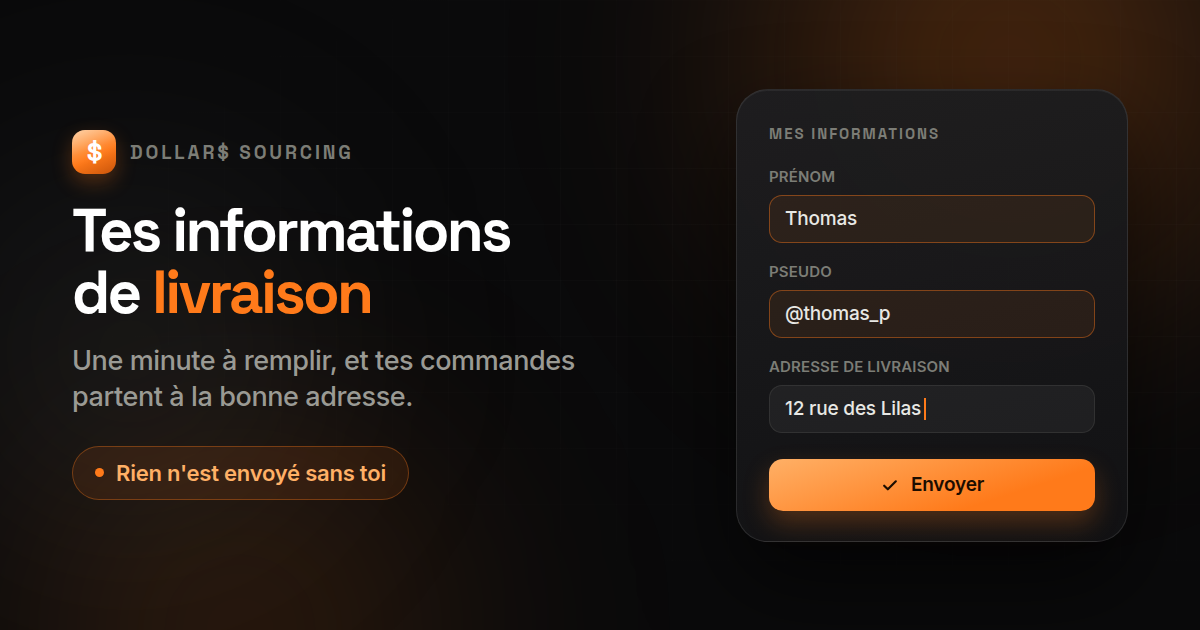
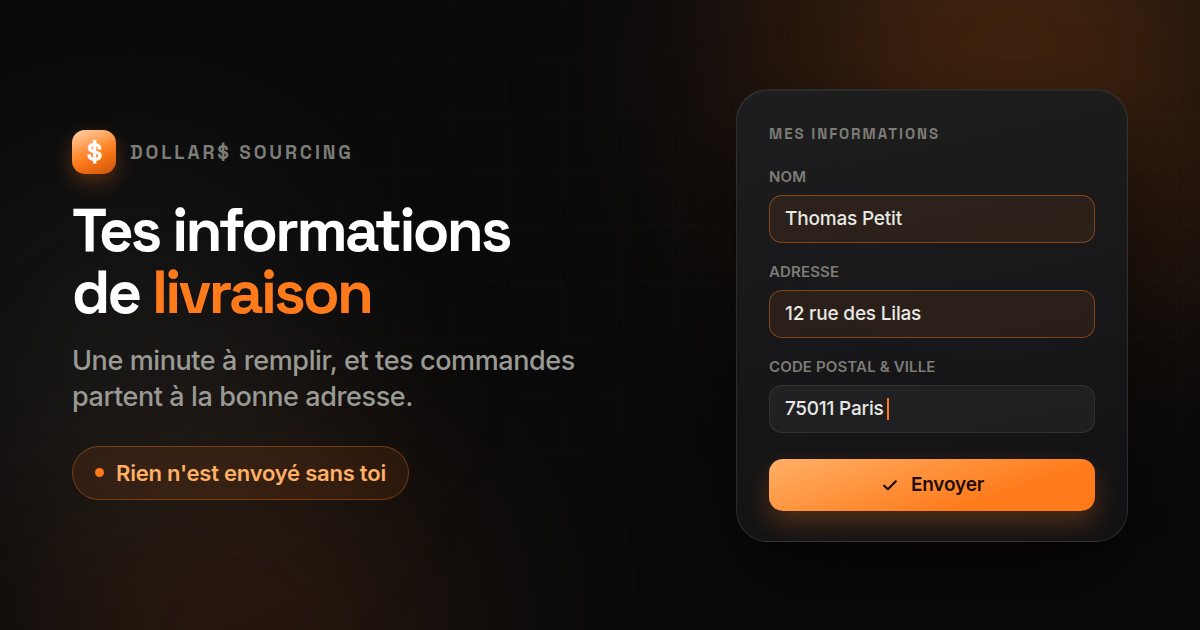
Le formulaire client tient en cinq lignes, celles du colis
Nom, Adresse, Code postal & Ville, Pays, Téléphone. Ni plus — une ligne de trop,
c'est un client qui abandonne — ni moins : une ligne qui manque, c'est un colis
qui revient.

Le pseudo réseau et le WhatsApp disparaissent du formulaire : Massif les a déjà,
c'est par là qu'il envoie le lien. Le nom redevient un seul champ, l'adresse se
scinde en rue / code postal & ville / pays.

Choisir une suggestion remplit désormais la rue ET la ligne code postal + ville
d'un coup : c'est tout l'intérêt d'avoir séparé les deux champs. Le pays est
pré-rempli à France et reste le seul champ facultatif ; les quatre autres sont
exigés, ce sont ceux sans lesquels rien ne part.

L'invite de l'assistant décrit le nouveau format et lui demande de regrouper les
trois lignes d'adresse en une seule chaîne — celle du colis. La bannière montre
les mêmes champs que la page.

Vérifié au navigateur : validation des quatre champs, autocomplétion qui
remplit les deux lignes, message construit en FR et EN, pays vide toléré,
parité des traductions et aucune clé orpheline.

Claude-Session: https://claude.ai/code/session_01RowgEY4HLSTdcJJrXVSWNG

diff --git a/formulaire.html b/formulaire.html
@@ -393,54 +393,43 @@
   </header>
 
   <form id="infoForm" novalidate>
+    <!-- Cinq lignes, et ce sont exactement celles qu'on recopie sur le colis :
+         nom, rue, code postal et ville, pays, téléphone. Ni plus (une ligne de
+         plus, c'est un client qui abandonne), ni moins (une ligne qui manque,
+         c'est un colis qui revient). -->
     <div class="card">
-      <p class="card-title" data-i18n="secIdentity">Qui es-tu</p>
-      <div class="row2">
-        <div class="field">
-          <label for="f_firstname" data-i18n="labFirstname">Prénom <span class="req">*</span></label>
-          <input type="text" id="f_firstname" autocomplete="given-name" enterkeyhint="next">
-          <div class="field-error"></div>
-        </div>
-        <div class="field">
-          <label for="f_lastname" data-i18n="labLastname">Nom <span class="req">*</span></label>
-          <input type="text" id="f_lastname" autocomplete="family-name" enterkeyhint="next">
-          <div class="field-error"></div>
-        </div>
-      </div>
+      <p class="card-title" data-i18n="secDelivery">Mes informations</p>
+
       <div class="field">
-        <label for="f_social" data-i18n="labSocial">Pseudo Snap / Insta / TikTok</label>
-        <input type="text" id="f_social" autocapitalize="none" autocomplete="off" data-i18n-placeholder="phSocial" placeholder="@ton_pseudo">
-        <p class="field-hint" data-i18n="hintSocial">Celui sur lequel on se parle déjà.</p>
+        <label for="f_name" data-i18n="labName">Nom <span class="req">*</span></label>
+        <input type="text" id="f_name" autocomplete="name" enterkeyhint="next" data-i18n-placeholder="phName" placeholder="Prénom et nom">
         <div class="field-error"></div>
       </div>
-    </div>
 
-    <div class="card">
-      <p class="card-title" data-i18n="secContact">Comment te joindre</p>
       <div class="field">
-        <label for="f_phone" data-i18n="labPhone">Téléphone</label>
-        <input type="tel" id="f_phone" class="tnum" autocomplete="tel" inputmode="tel" data-i18n-placeholder="phPhone" placeholder="06 12 34 56 78">
-      </div>
-      <div class="field">
-        <label for="f_whatsapp" data-i18n="labWhatsapp">WhatsApp</label>
-        <input type="tel" id="f_whatsapp" class="tnum" inputmode="tel" autocomplete="off" data-i18n-placeholder="phWhatsapp" placeholder="Si différent du téléphone">
-        <p class="field-hint" data-i18n="hintWhatsapp">C'est là que tu recevras le suivi de tes colis.</p>
-      </div>
-    </div>
-
-    <div class="card">
-      <p class="card-title" data-i18n="secDelivery">Où livrer</p>
-      <div class="field">
-        <label for="f_address" data-i18n="labAddress">Adresse complète <span class="req">*</span></label>
-        <input type="text" id="f_address" autocomplete="street-address" data-i18n-placeholder="phAddress" placeholder="Numéro, rue, code postal, ville">
+        <label for="f_address" data-i18n="labAddress">Adresse <span class="req">*</span></label>
+        <input type="text" id="f_address" autocomplete="street-address" data-i18n-placeholder="phAddress" placeholder="Numéro et rue">
         <div class="addr-suggestions" id="addrSuggestions"></div>
-        <p class="field-hint" data-i18n="hintAddress">Commence à taper : les adresses françaises se complètent toutes seules.</p>
+        <p class="field-hint" data-i18n="hintAddress">Commence à taper : les adresses françaises se complètent toutes seules, code postal et ville compris.</p>
         <div class="field-error"></div>
       </div>
+
       <div class="field">
-        <label for="f_extra" data-i18n="labExtra">Étage, bâtiment, code d'entrée</label>
-        <textarea id="f_extra" rows="2" data-i18n-placeholder="phExtra" placeholder="Bât. B, 3e étage, code 1234A"></textarea>
-        <p class="field-hint" data-i18n="hintExtra">Ce qui évite au livreur de repartir avec le colis.</p>
+        <label for="f_zipcity" data-i18n="labZipCity">Code postal &amp; Ville <span class="req">*</span></label>
+        <input type="text" id="f_zipcity" autocomplete="postal-code" data-i18n-placeholder="phZipCity" placeholder="75011 Paris">
+        <div class="field-error"></div>
+      </div>
+
+      <div class="field">
+        <label for="f_country" data-i18n="labCountry">Pays</label>
+        <input type="text" id="f_country" autocomplete="country-name" value="France">
+      </div>
+
+      <div class="field">
+        <label for="f_phone" data-i18n="labPhone">Téléphone <span class="req">*</span></label>
+        <input type="tel" id="f_phone" class="tnum" autocomplete="tel" inputmode="tel" data-i18n-placeholder="phPhone" placeholder="06 12 34 56 78">
+        <p class="field-hint" data-i18n="hintPhone">Le transporteur en a besoin pour te livrer.</p>
+        <div class="field-error"></div>
       </div>
     </div>
 
@@ -480,63 +469,51 @@ const I18N = {
     langTitle:'Langue', themeTitle:'Thème',
     pageTitle:'Tes informations',
     pageLead:'Une minute à remplir, et tes commandes partent à la bonne adresse.',
-    secIdentity:'Qui es-tu', secContact:'Comment te joindre', secDelivery:'Où livrer',
-    labFirstname:'Prénom <span class="req">*</span>', labLastname:'Nom <span class="req">*</span>',
-    labSocial:'Pseudo Snap / Insta / TikTok', phSocial:'@ton_pseudo',
-    hintSocial:'Celui sur lequel on se parle déjà.',
-    labPhone:'Téléphone', phPhone:'06 12 34 56 78',
-    labWhatsapp:'WhatsApp', phWhatsapp:'Si différent du téléphone',
-    hintWhatsapp:'C’est là que tu recevras le suivi de tes colis.',
-    labAddress:'Adresse complète <span class="req">*</span>',
-    phAddress:'Numéro, rue, code postal, ville',
-    hintAddress:'Commence à taper : les adresses françaises se complètent toutes seules.',
-    labExtra:'Étage, bâtiment, code d’entrée', phExtra:'Bât. B, 3e étage, code 1234A',
-    hintExtra:'Ce qui évite au livreur de repartir avec le colis.',
+    secDelivery:'Mes informations',
+    labName:'Nom <span class="req">*</span>', phName:'Prénom et nom',
+    labAddress:'Adresse <span class="req">*</span>', phAddress:'Numéro et rue',
+    hintAddress:'Commence à taper : les adresses françaises se complètent toutes seules, code postal et ville compris.',
+    labZipCity:'Code postal &amp; Ville <span class="req">*</span>', phZipCity:'75011 Paris',
+    labCountry:'Pays',
+    labPhone:'Téléphone <span class="req">*</span>', phPhone:'06 12 34 56 78',
+    hintPhone:'Le transporteur en a besoin pour te livrer.',
     privacyNote:'Ces informations servent uniquement à préparer et expédier tes commandes. Rien n’est envoyé sans toi : tu relis le message avant de l’envoyer.',
     sendBtn:'Envoyer sur WhatsApp', copyBtn:'Copier mes informations',
     sentTitle:'C’est parti',
     sentLead:'WhatsApp s’est ouvert avec tes informations. Il ne te reste qu’à appuyer sur envoyer.',
     backBtn:'Corriger mes informations',
     errRequired:'À remplir.',
-    errNoContact:'Laisse au moins un moyen de te joindre : pseudo, téléphone ou WhatsApp.',
     copied:'Informations copiées',
     copyFail:'Copie impossible — sélectionne le texte à la main.',
     msgIntro:'Voici mes informations pour mes commandes :',
     msgSep:' : ',
-    msgFirstname:'Prénom', msgLastname:'Nom', msgSocial:'Pseudo',
-    msgPhone:'Téléphone', msgWhatsapp:'WhatsApp',
-    msgAddress:'Adresse', msgExtra:'Précisions'
+    msgName:'Nom', msgAddress:'Adresse', msgZipCity:'Code postal & Ville',
+    msgCountry:'Pays', msgPhone:'Téléphone'
   },
   en:{
     langTitle:'Language', themeTitle:'Theme',
     pageTitle:'Your details',
     pageLead:'One minute to fill in, and your orders ship to the right address.',
-    secIdentity:'Who you are', secContact:'How to reach you', secDelivery:'Where to deliver',
-    labFirstname:'First name <span class="req">*</span>', labLastname:'Last name <span class="req">*</span>',
-    labSocial:'Snap / Insta / TikTok handle', phSocial:'@your_handle',
-    hintSocial:'The one we already talk on.',
-    labPhone:'Phone', phPhone:'+33 6 12 34 56 78',
-    labWhatsapp:'WhatsApp', phWhatsapp:'If different from your phone',
-    hintWhatsapp:'That’s where you’ll get your tracking.',
-    labAddress:'Full address <span class="req">*</span>',
-    phAddress:'Number, street, postcode, city',
-    hintAddress:'Start typing: French addresses complete themselves.',
-    labExtra:'Floor, building, door code', phExtra:'Bldg B, 3rd floor, code 1234A',
-    hintExtra:'What keeps the courier from leaving with your parcel.',
+    secDelivery:'My details',
+    labName:'Name <span class="req">*</span>', phName:'First and last name',
+    labAddress:'Address <span class="req">*</span>', phAddress:'Number and street',
+    hintAddress:'Start typing: French addresses complete themselves, postcode and city included.',
+    labZipCity:'Postcode &amp; City <span class="req">*</span>', phZipCity:'75011 Paris',
+    labCountry:'Country',
+    labPhone:'Phone <span class="req">*</span>', phPhone:'+33 6 12 34 56 78',
+    hintPhone:'The courier needs it to deliver to you.',
     privacyNote:'These details are only used to prepare and ship your orders. Nothing is sent without you: you read the message before sending it.',
     sendBtn:'Send on WhatsApp', copyBtn:'Copy my details',
     sentTitle:'All set',
     sentLead:'WhatsApp opened with your details. All that’s left is to hit send.',
     backBtn:'Edit my details',
     errRequired:'Required.',
-    errNoContact:'Leave at least one way to reach you: handle, phone or WhatsApp.',
     copied:'Details copied',
     copyFail:'Copy failed — select the text by hand.',
     msgIntro:'Here are my details for my orders:',
     msgSep:': ',
-    msgFirstname:'First name', msgLastname:'Last name', msgSocial:'Handle',
-    msgPhone:'Phone', msgWhatsapp:'WhatsApp',
-    msgAddress:'Address', msgExtra:'Notes'
+    msgName:'Name', msgAddress:'Address', msgZipCity:'Postcode & City',
+    msgCountry:'Country', msgPhone:'Phone'
   }
 };
 
@@ -650,13 +627,8 @@ function clearFieldError(input){
   const field = input.closest('.field');
   if(field) field.classList.remove('invalid');
 }
-['#f_firstname','#f_lastname','#f_address'].forEach(sel=>{
+['#f_name','#f_address','#f_zipcity','#f_phone'].forEach(sel=>{
   $(sel).addEventListener('input', ()=>clearFieldError($(sel)));
-});
-// L'erreur « laisse un moyen de te joindre » est portée par le champ pseudo,
-// mais n'importe lequel des trois la lève.
-['#f_social','#f_phone','#f_whatsapp'].forEach(sel=>{
-  $(sel).addEventListener('input', ()=>clearFieldError($('#f_social')));
 });
 
 // ================= Adresses françaises =================
@@ -697,13 +669,20 @@ $('#f_address').addEventListener('input', (e)=>{
   addrTimer = setTimeout(()=>searchAddress(q), 320);
 });
 $('#f_address').addEventListener('blur', ()=>setTimeout(hideAddrSuggestions, 180));
+// Choisir une suggestion remplit la rue ET la ligne code postal + ville : c'est
+// tout l'intérêt d'avoir séparé les deux champs.
 $('#addrSuggestions').addEventListener('click', (e)=>{
   const item = e.target.closest('[data-addr]');
   if(!item) return;
   const f = addrResults[Number(item.dataset.addr)];
   if(!f) return;
-  $('#f_address').value = (f.properties && f.properties.label) || '';
+  const pr = f.properties || {};
+  $('#f_address').value = pr.name || pr.label || '';
+  const cp = ((pr.postcode || '') + ' ' + (pr.city || '')).trim();
+  if(cp) $('#f_zipcity').value = cp;
+  if(!$('#f_country').value.trim()) $('#f_country').value = 'France';
   clearFieldError($('#f_address'));
+  clearFieldError($('#f_zipcity'));
   hideAddrSuggestions();
 });
 
@@ -712,37 +691,32 @@ $('#addrSuggestions').addEventListener('click', (e)=>{
 // une ligne par champ, un libellé, deux points. Les champs vides disparaissent.
 function collect(){
   return {
-    firstname: $('#f_firstname').value.trim(),
-    lastname:  $('#f_lastname').value.trim(),
-    social:    $('#f_social').value.trim(),
-    phone:     $('#f_phone').value.trim(),
-    whatsapp:  $('#f_whatsapp').value.trim(),
-    address:   $('#f_address').value.trim(),
-    extra:     $('#f_extra').value.trim()
+    name:    $('#f_name').value.trim(),
+    address: $('#f_address').value.trim(),
+    zipcity: $('#f_zipcity').value.trim(),
+    country: $('#f_country').value.trim(),
+    phone:   $('#f_phone').value.trim()
   };
 }
 function buildMessage(d){
   const lines = [t('msgIntro'), ''];
   const add = (key, val)=>{ if(val) lines.push(t(key) + t('msgSep') + val); };
-  add('msgFirstname', d.firstname);
-  add('msgLastname',  d.lastname);
-  add('msgSocial',    d.social);
-  add('msgPhone',     d.phone);
-  add('msgWhatsapp',  d.whatsapp);
-  add('msgAddress',   d.address);
-  add('msgExtra',     d.extra);
+  add('msgName',    d.name);
+  add('msgAddress', d.address);
+  add('msgZipCity', d.zipcity);
+  add('msgCountry', d.country);
+  add('msgPhone',   d.phone);
   return lines.join('\n');
 }
+// Quatre lignes sur cinq sont obligatoires : ce sont celles sans lesquelles le
+// colis ne part pas. Le pays est le seul à pouvoir rester vide, il est
+// pré-rempli à France et se corrige d'un mot.
 function validate(d){
   let ok = true;
-  if(!d.firstname){ setFieldError($('#f_firstname'), t('errRequired')); ok = false; }
-  if(!d.lastname){  setFieldError($('#f_lastname'),  t('errRequired')); ok = false; }
-  if(!d.address){   setFieldError($('#f_address'),   t('errRequired')); ok = false; }
-  // Un colis sans moyen de joindre son destinataire, c'est un colis perdu.
-  if(!d.social && !d.phone && !d.whatsapp){
-    setFieldError($('#f_social'), t('errNoContact'));
-    ok = false;
-  }
+  if(!d.name){    setFieldError($('#f_name'),    t('errRequired')); ok = false; }
+  if(!d.address){ setFieldError($('#f_address'), t('errRequired')); ok = false; }
+  if(!d.zipcity){ setFieldError($('#f_zipcity'), t('errRequired')); ok = false; }
+  if(!d.phone){   setFieldError($('#f_phone'),   t('errRequired')); ok = false; }
   if(!ok){
     const first = document.querySelector('.field.invalid');
     if(first) first.scrollIntoView({ block:'center', behavior: prefersReduced ? 'auto' : 'smooth' });

diff --git a/index.html b/index.html
@@ -4507,9 +4507,13 @@ Si un mot semble déformé par la reconnaissance vocale mais que le sens est cla
 Ne redemande JAMAIS une information déjà présente dans le message, même mal écrite.
 
 FORMULAIRE CLIENT REMPLI : si le message ressemble à une fiche remplie ligne par ligne
-(Prénom : ... / Nom : ... / Pseudo : ... / Téléphone : ... / WhatsApp : ... / Adresse : ...),
+(Nom : ... / Adresse : ... / Code postal & Ville : ... / Pays : ... / Téléphone : ...),
 lis chaque ligne et crée directement le client avec tous ces champs.
-Le champ "name" doit contenir "Prénom Nom". Les lignes laissées vides sont simplement ignorées.
+"address" doit REGROUPER en une seule chaîne la rue, le code postal, la ville et le
+pays s'il n'est pas la France : c'est ce qui sera recopié sur le colis.
+Le champ "name" contient le nom tel qu'il est écrit. Un pseudo (Pseudo / Snap /
+Insta / TikTok) ou un WhatsApp restent acceptés s'ils figurent dans le message,
+mais le formulaire ne les demande plus. Les lignes vides sont simplement ignorées.
 Ne pose aucune question si la fiche est complète : résume et demande juste confirmation.
 Quand une demande contient à la fois un nouveau client ET une commande, traite les deux :
 crée d'abord le client via create_order (le clientName suffit, le client est créé automatiquement),

diff --git a/CLAUDE.md b/CLAUDE.md
@@ -18,9 +18,16 @@ Objectif à terme : en faire un SaaS payant par abonnement.
 - `index.html` — application pro (Massif et ses invités)
 - `client.html` — portail client, accessible par lien personnel (bilingue lui aussi,
   langue détectée depuis le navigateur, bascule FR/EN mémorisée)
-- `formulaire.html` — la page où un client remplit ses informations (identité,
-  moyen de contact, adresse) avant sa première commande. Bilingue, thèmes,
-  autocomplétion d'adresses françaises. **Elle n'écrit rien dans la base** : elle
+- `formulaire.html` — la page où un client remplit ses informations avant sa
+  première commande. **Cinq lignes, et ce sont exactement celles qu'on recopie
+  sur le colis** : nom, adresse, code postal & ville, pays, téléphone. Ni plus —
+  une ligne de trop, c'est un client qui abandonne — ni moins : une ligne qui
+  manque, c'est un colis qui revient. Le pays est pré-rempli à France et reste
+  le seul champ facultatif. Le pseudo réseau social et le WhatsApp n'y sont plus
+  demandés : Massif les a déjà, c'est par là qu'il envoie le lien.
+  Choisir une suggestion d'adresse remplit **la rue et la ligne code postal +
+  ville d'un coup** : c'est tout l'intérêt d'avoir séparé les deux champs.
+  Bilingue, thèmes, autocomplétion d'adresses françaises. **Elle n'écrit rien dans la base** : elle
   fabrique un message WhatsApp propre que le client envoie lui-même, et que
   l'assistant de l'app sait lire ligne par ligne. C'est ce qui la rend sans
   risque — ouvrir une écriture publique sur `clients` aurait demandé un tout
@@ -694,7 +701,11 @@ commandes, fournisseurs, changement de statut.
 Il reçoit un instantané des données réelles et une mémoire persistante
 (`settings/assistantMemory`) qu'il enrichit via un champ `remember`.
 Il sait lire une photo, une conversation WhatsApp collée, et un formulaire
-client rempli ligne par ligne.
+client rempli ligne par ligne. **Son invite décrit le format exact de
+`formulaire.html`** (Nom / Adresse / Code postal & Ville / Pays / Téléphone) et
+lui demande de regrouper les trois lignes d'adresse en une seule chaîne : c'est
+elle qui sera recopiée sur le colis. Changer les champs du formulaire sans
+changer cette invite, c'est se retrouver avec des fiches clients amputées.
 
 ## Fait
 
